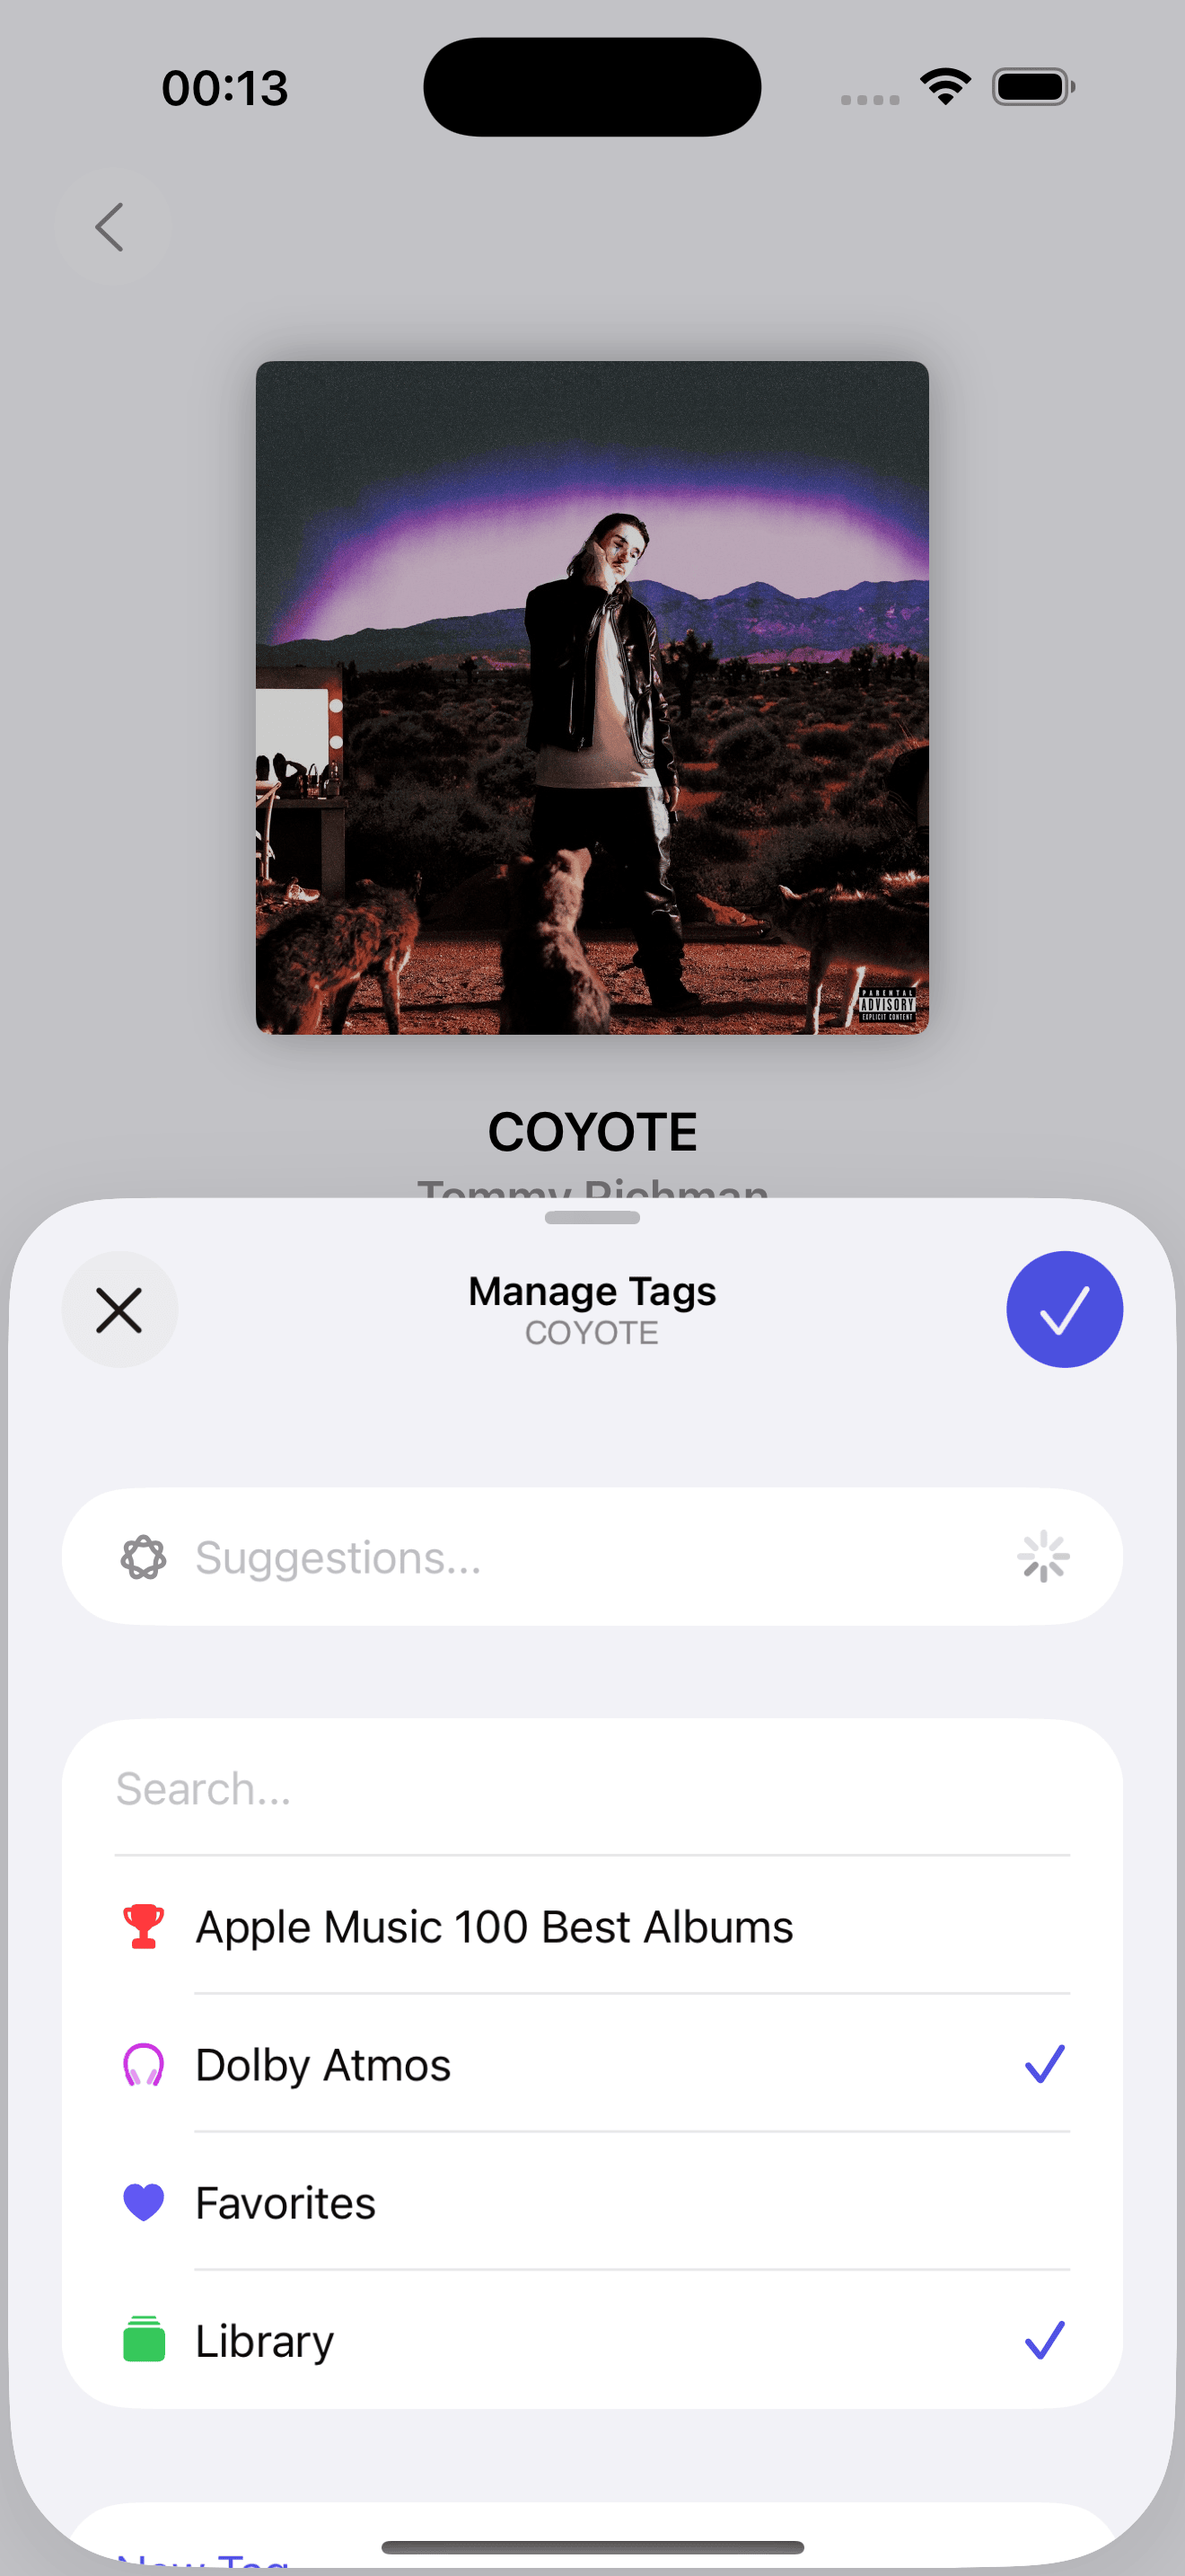
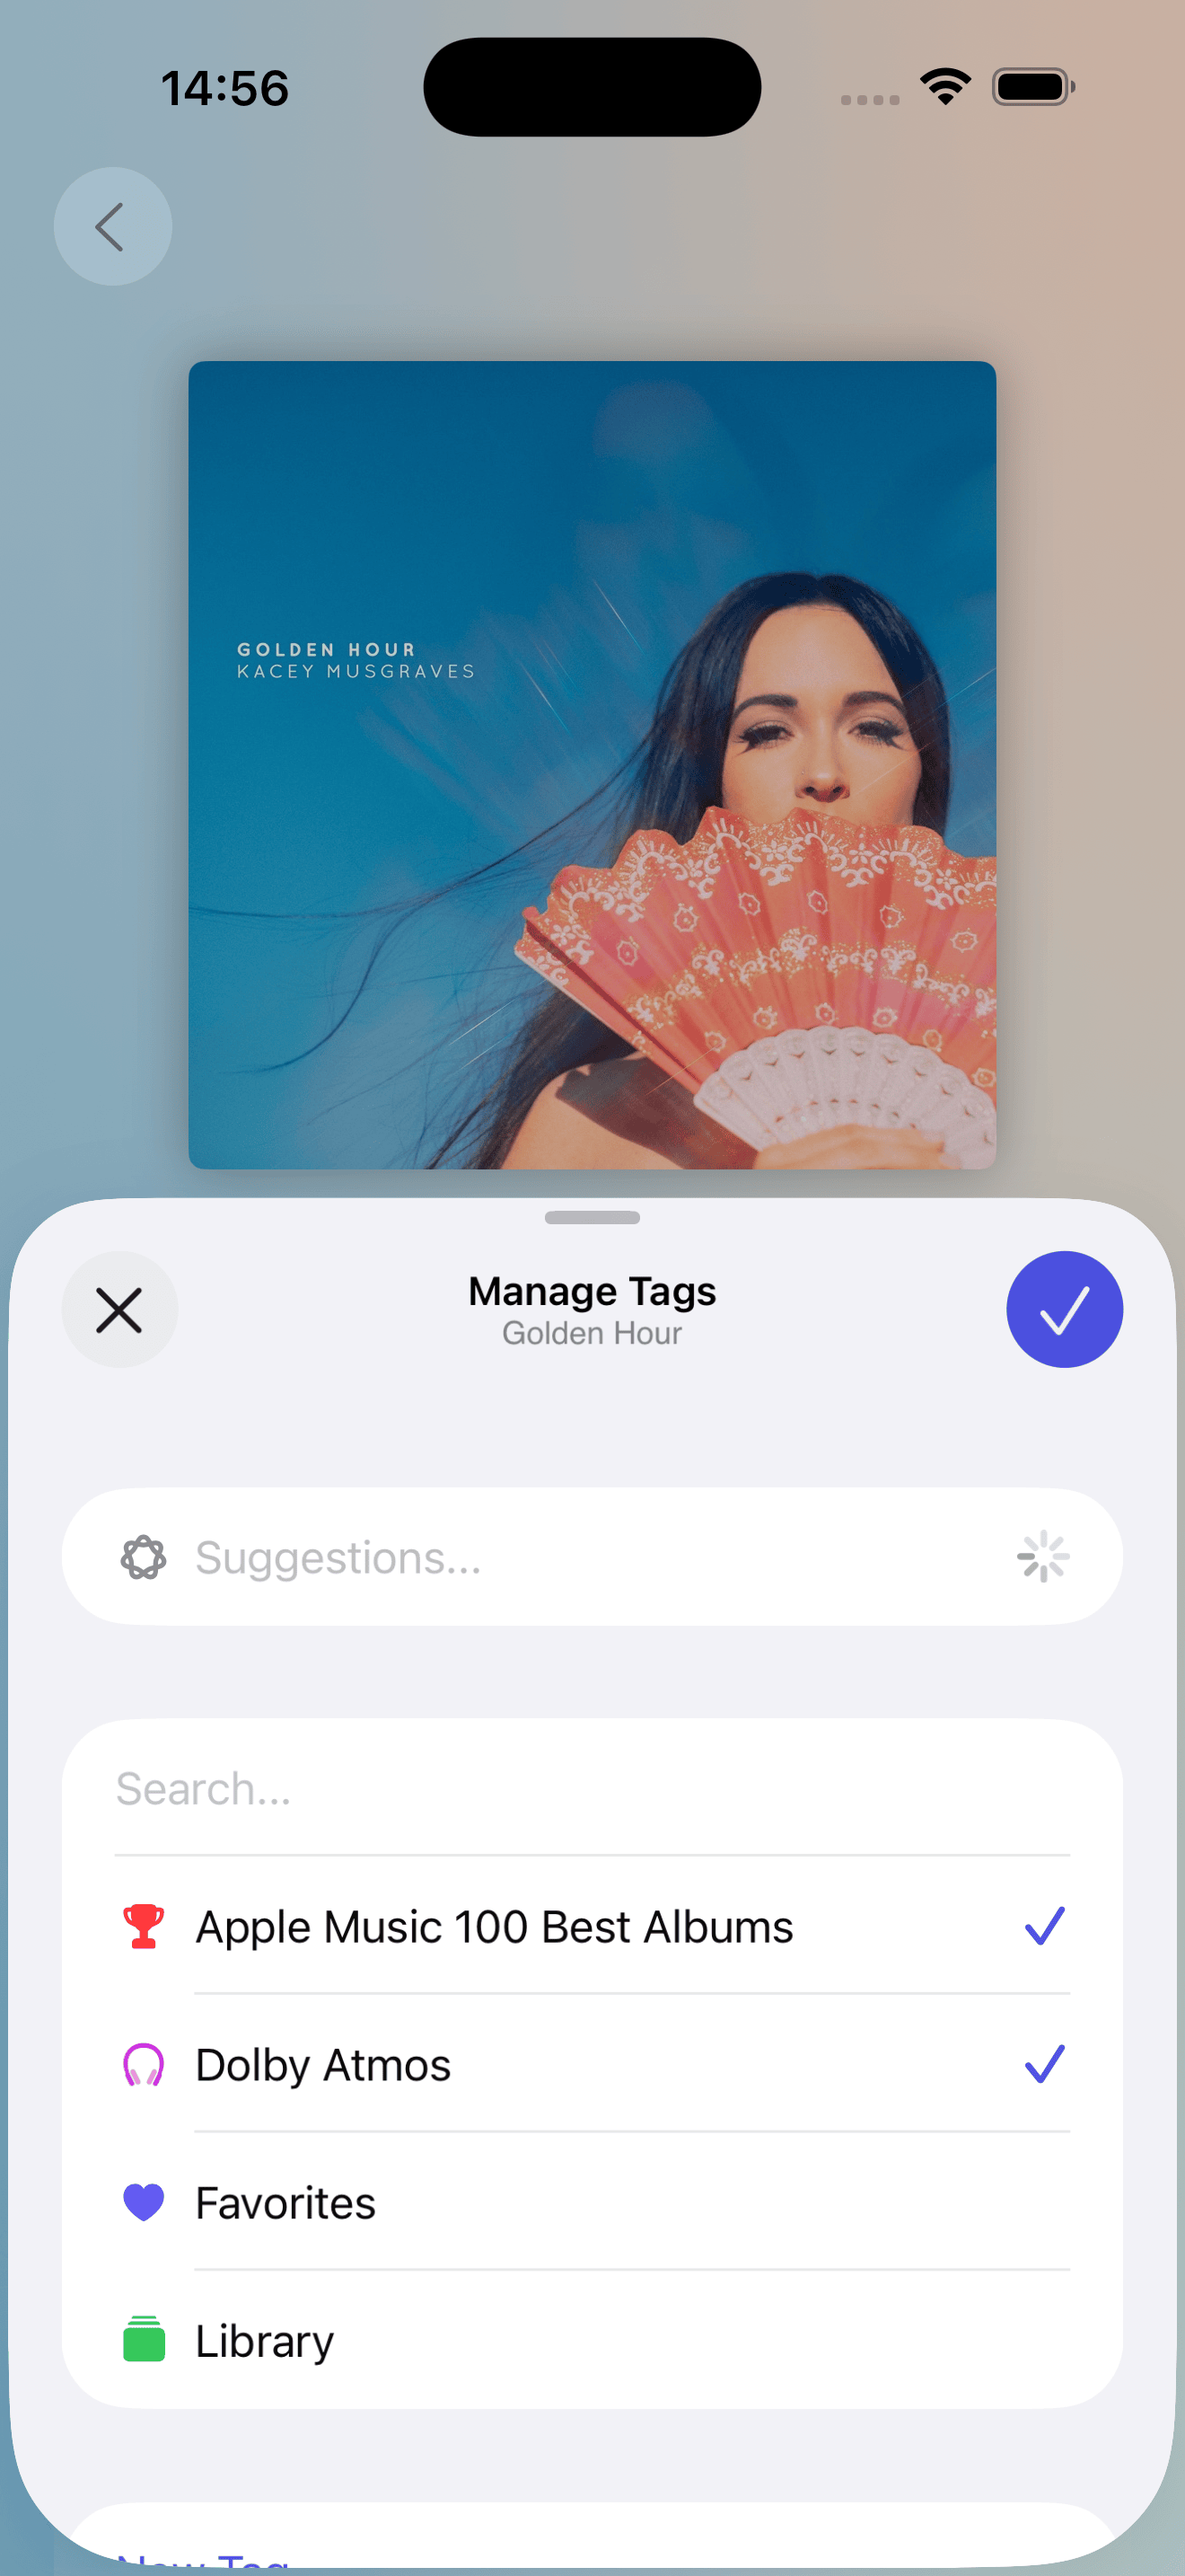
What’s New in MusicBox

diff --git a/press-kit/musicbox/musicbox-press-kit.html b/press-kit/musicbox/musicbox-press-kit.html
@@ -74,12 +74,13 @@
                                 <p class="title is-4" id="about">About MusicBox</p>
 
                                 <div class="content">
-                                    <p>MusicBox is an award-winning, flexible listen later app that you can use to:</p>
+                                    <p>MusicBox is an award-winning app that helps you catalog, organize, and rediscover your music library:</p>
 
                                     <ul>
-                                        <li>Keep track of new music you want to listen to later.</li>
-                                        <li>Catalog and organize favorite albums, songs, artists, playlists, and radio stations.</li>
-                                        <li>Categorize music with tags, assign notes, manage metadata, and more.</li>
+                                        <li>Tag albums and create smart collections to make them easier to find.</li>
+                                        <li>Give your favorites a star rating.</li>
+                                        <li>Save new music for later without cluttering your library.</li>
+                                        <li>Instantly access your collection with Home Screen widgets.</li>
                                     </ul>
                                 
                                     <br>
@@ -107,10 +108,10 @@
                                         <li><strong>Auto-Tagging:</strong> Automatically tag albums and songs based on rules you set.</li>
                                         <li><strong>Deep Search:</strong> Search your music by attributes such as title, artist, genre, record label, tags, type, and notes.</li>
                                         <li><strong>Smart Search:</strong> Automatically filter albums and songs based on a set of rules.</li>
-                                        <li><strong>Focus Filter:</strong> Configure a Focus mode to limit the videos and tags shown in Play.</li>
-                                        <li><strong>App Shortcuts:</strong> Automate workflows using MusicBox's actions and data.</li>
+                                        <li><strong>Focus Filter:</strong> Configure a Focus mode to limit the music shown in MusicBox.</li>
+                                        <li><strong>App Shortcuts:</strong> Automate workflows using MusicBox’s actions and data.</li>
                                         <li><strong>Interactive Widgets:</strong> Add and customize interactive widgets to your Home Screen, Lock Screen, and Desktop.</li>
-                                        <li><strong>Shazam:</strong> Easily bookmark music playing around you.</li>
+                                        <li><strong>Shazam:</strong> Easily save music playing around you for later.</li>
                                         <li><strong>iCloud:</strong> Your database is automatically synced to your iPhone, iPad, Mac, and Apple TV.</li>
                                     </ul>
                                 </div>
@@ -128,7 +129,7 @@
                                 <p class="title is-4" id="media">Screenshots</p>
 
                                 <div class="content">
-                                    <p>You can download all images at once by <a download href="MusicBox-assets.zip" class="underlined">clicking here</a> (15.4 MB). But feel free to right-click any images bellow to save an individual, full-resolution screenshot as well:</p>
+                                    <p>You can download all images at once by <a download href="MusicBox-assets.zip" class="underlined">clicking here</a> (19.7 MB), or feel free to right-click any image below to save an individual full-resolution screenshot instead:</p>
                                 </div>
 
                                 <br>
@@ -550,7 +551,7 @@
                                 <p class="title is-4" id="questions">Questions?</p>
 
                                 <div class="content">
-                                    <p>Don't hesitate to <a href="mailto:marcosatanaka@gmail.com" class="underlined">reach out via email</a> with any questions you may have.</p>
+                                    <p>Don’t hesitate to <a href="mailto:marcosatanaka@gmail.com" class="underlined">reach out via email</a> with any questions you may have.</p>
                                 </div>
 			                </div>
                         </div>

diff --git a/whats-new/musicbox-ios.html b/whats-new/musicbox-ios.html
@@ -39,6 +39,18 @@
                         <div class="columns">
                         	<div class="column is-9 is-offset-1">
 
+                                <p class="title is-3" style="padding-top: 1em;" id="1.6.1">Version 1.6.1</p>
+                                <p><em>Released October X, 2025</em></p>
+                                <div class="content">
+                                    <ul>
+                                        <li>The details page now adapts to the artwork’s colors, making Liquid Glass controls stand out with gorgeous reflections and refractions.</li>
+                                        <li>iPad now offers a redesigned details page that makes full use of the available space.</li>
+                                        <li>Tinted widgets now display images in full color.</li>
+                                        <li>Tags are now easily accessible without scrolling when adding music via the share sheet.</li>
+                                        <li>The Notes text field is now larger on bigger phones, making better use of the available space.</li>
+                                    </ul>
+                                </div>
+
                                 <p class="title is-3" id="1.6.0">Version 1.6.0</p>
                                 <p><em>Released September 14, 2025</em></p>
                                 <br>

diff --git a/index.html b/index.html
@@ -889,7 +889,7 @@
                         <p class="title is-3">MusicBox</p>
                         <div class="columns">
                             <div class="column is-offset-3 is-6">
-                                <p class="has-text-centered">MusicBox is an award-winning, flexible <strong>listen later app for albums, songs, artists, playlists, and radio stations.</strong> Save new music for later, catalog and organize favorites, assign tags, notes, metadata, and more. Named Best New App of 2022 as part of the annual <a class="underlined" href="https://www.macstories.net/stories/macstories-selects-2022-recognizing-the-best-apps-of-the-year/#best-new-app">MacStories Selects Awards</a>.</p>
+                                <p class="has-text-centered">MusicBox is an award-winning app that helps you <strong>catalog, organize, and rediscover your music library.</strong> Tag albums, rate favorites, add notes, manage metadata, create smart collections, and more. Named Best New App of 2022 by <a class="underlined" href="https://www.macstories.net/stories/macstories-selects-2022-recognizing-the-best-apps-of-the-year/#best-new-app">MacStories Selects</a>.</p>
                             </div>
                         </div>
                         <a href="https://apps.apple.com/us/app/id1614730313">

diff --git a/whats-new/musicbox-macos.html b/whats-new/musicbox-macos.html
@@ -39,6 +39,14 @@
                         <div class="columns">
                         	<div class="column is-9 is-offset-1">
 
+                                <p class="title is-3" style="padding-top: 1em;" id="1.6.1">Version 1.6.1</p>
+                                <p><em>Released September X, 2025</em></p>
+                                <div class="content">
+                                    <ul>
+                                        <li>Tinted widgets now display images in full color.</li>
+                                    </ul>
+                                </div>
+
                                 <p class="title is-3" id="1.6.0">Version 1.6.0</p>
                                 <p><em>Released September 14, 2025</em></p>
                                 <br>
